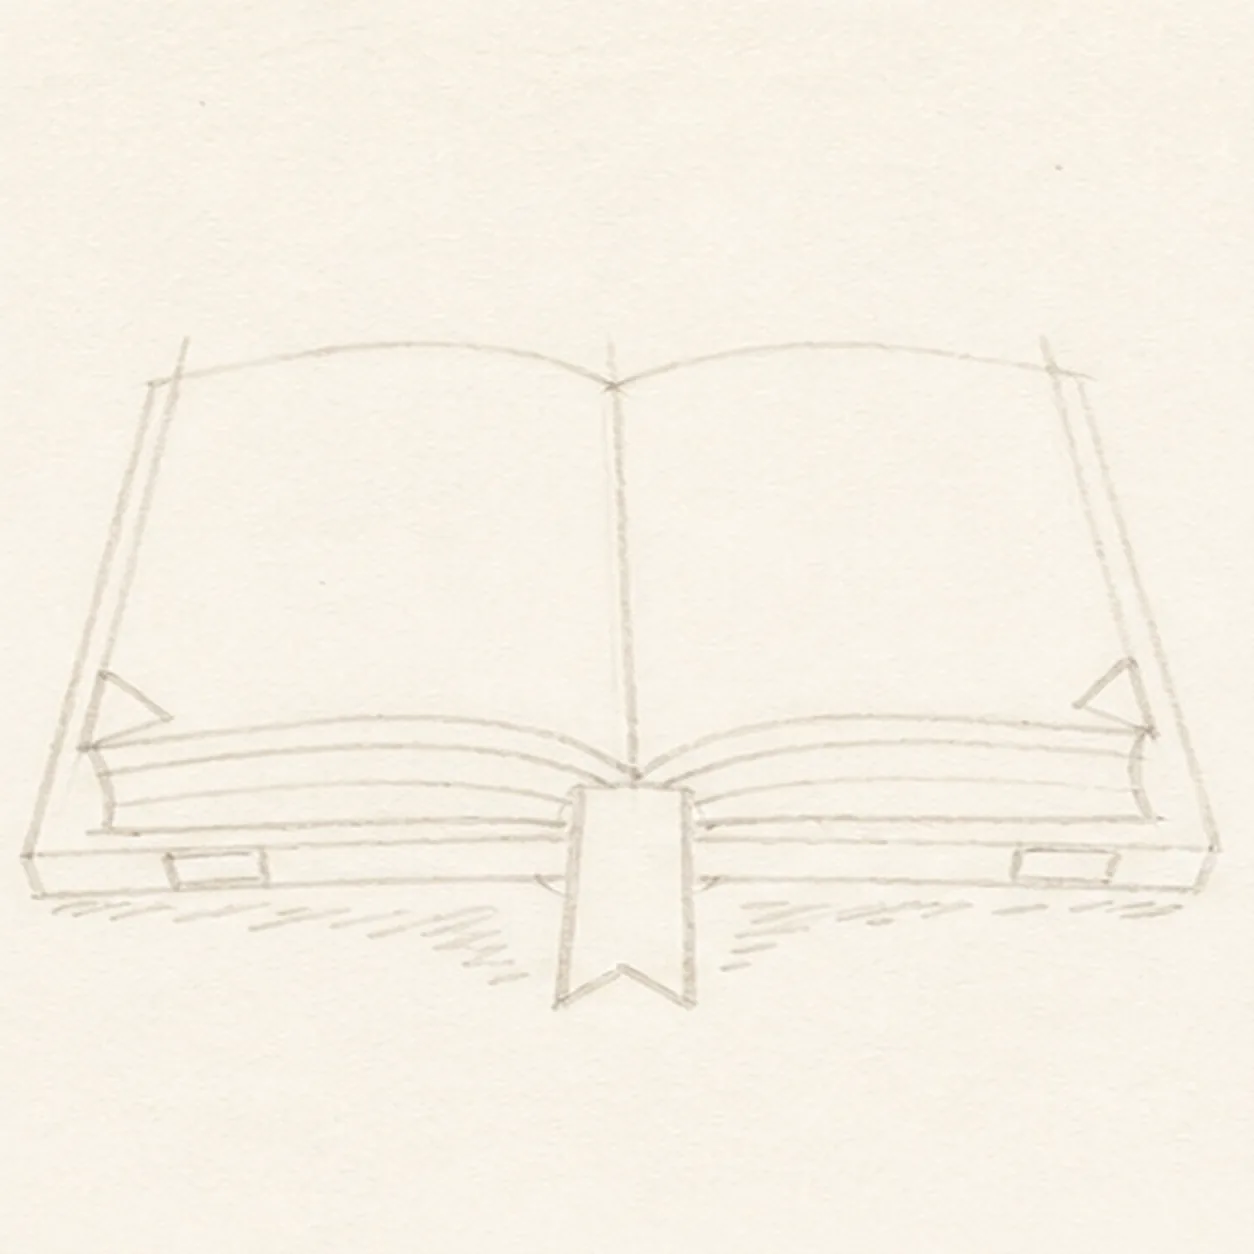
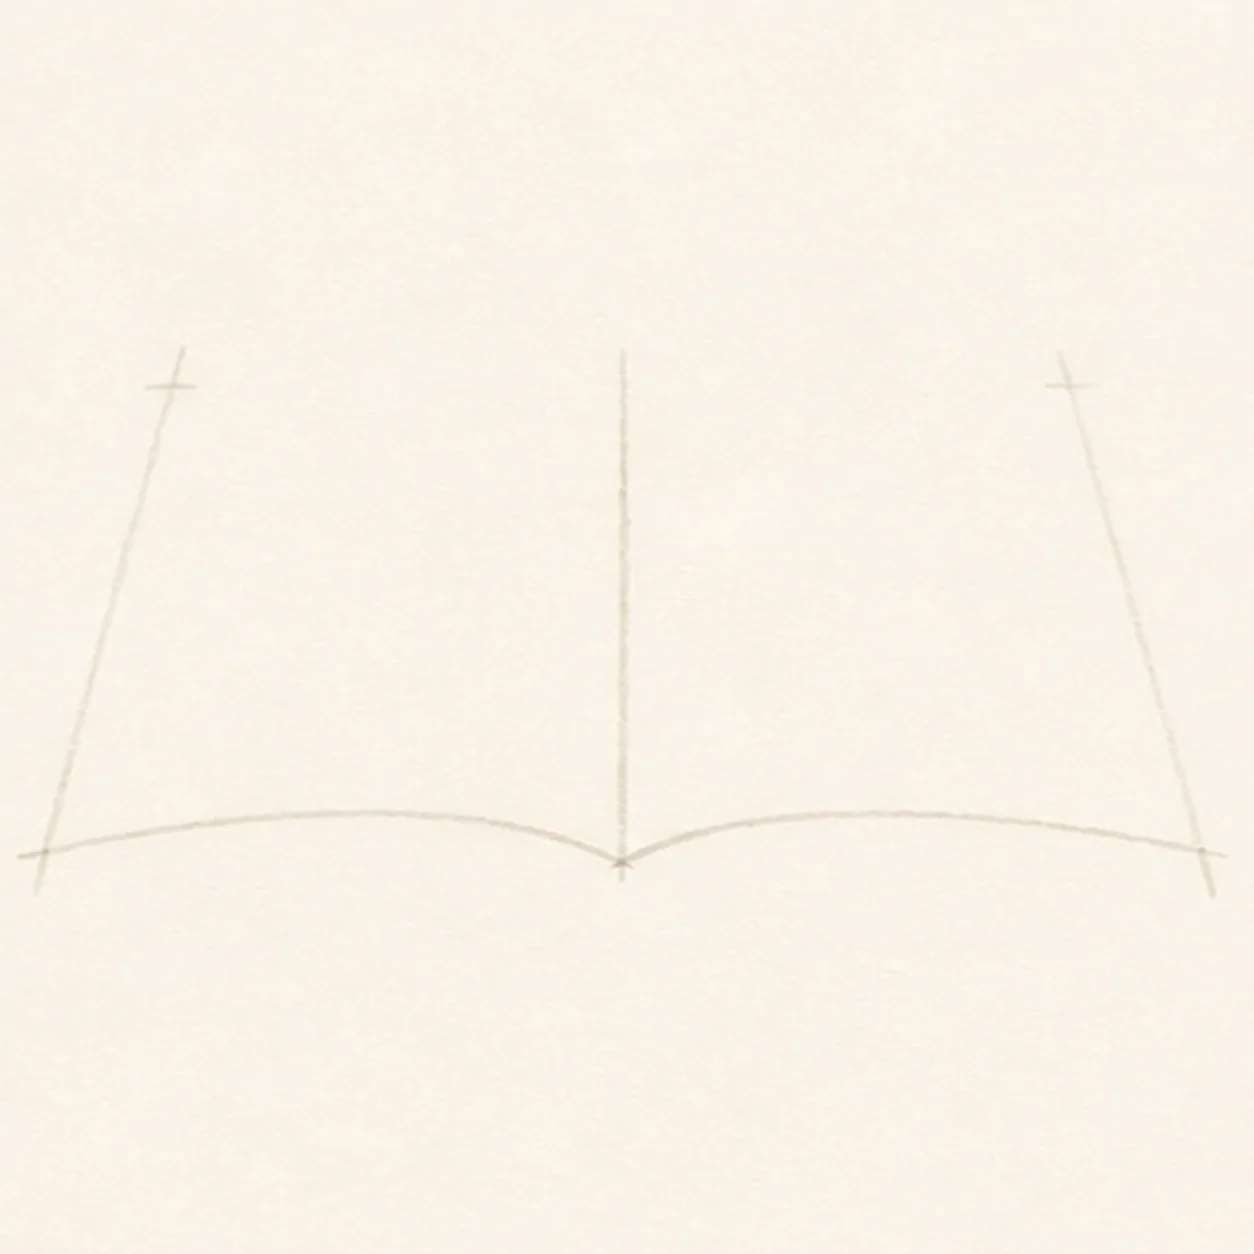
Repair open book early drawing steps

diff --git a/tutorials/open-book-with-ribbon-bookmark.html b/tutorials/open-book-with-ribbon-bookmark.html
@@ -87,23 +87,23 @@
       "step": [
         {
           "@type": "HowToStep",
-          "name": "Map the open spread",
-          "text": "Use pale construction to place two blank page faces, one center gutter, the lower page-block thickness, one cover edge, a ribbon route from the gutter, two corner-curl routes, exactly three lower page-edge bands per side, small cover-highlight gaps, and one broken shadow footprint."
+          "name": "Block the hinge gesture",
+          "text": "Use only a few very pale pencil strokes to place one center hinge, the shallow spread angle, two page-span arcs, and four outer corner points without closing the book or adding thickness, ribbon, curls, bands, highlights, shadow, ink, or color."
         },
         {
           "@type": "HowToStep",
-          "name": "Wrap the book silhouette",
-          "text": "Add one loose open-book contour with exactly two broad blank page shapes and one V-shaped center gutter while preserving every cover, ribbon, curl, lower-band, highlight, and shadow route."
+          "name": "Shape the two page faces",
+          "text": "Turn the sparse gesture into exactly two loose blank page-face silhouettes meeting at one V-shaped center gutter, with no lower thickness, cover, ribbon, curls, bands, highlights, shadow, ink, or color yet."
         },
         {
           "@type": "HowToStep",
-          "name": "Build the page blocks",
-          "text": "Clarify both page blocks, their lower thickness, one visible cover edge, and the center gutter while keeping the pale ribbon route and all six lower-band routes visible."
+          "name": "Build the layered book",
+          "text": "Add the lower page-block thickness, one visible cover edge, one ribbon footprint from the gutter, two outer corner-curl silhouettes, exactly three lower-band routes per side, small cover-highlight gaps, and one broken shadow footprint in pale pencil."
         },
         {
           "@type": "HowToStep",
-          "name": "Tuck in the coral ribbon",
-          "text": "Trace one flat ribbon bookmark over its persistent pale route, fill it coral, and strengthen one small curl at each outer page corner without changing the book geometry."
+          "name": "Ink the book and ribbon",
+          "text": "Trace the established page, gutter, thickness, cover, ribbon, curl, band, highlight, and shadow boundaries with thick, slightly wobbly black felt-tip, then fill only the single ribbon coral without changing the book geometry."
         },
         {
           "@type": "HowToStep",
@@ -112,8 +112,8 @@
         },
         {
           "@type": "HowToStep",
-          "name": "Ink the story-ready lines",
-          "text": "Trace only the established page, gutter, cover, ribbon, curl, lower-band, highlight, and shadow boundaries with thick, slightly wobbly black felt-tip, then add short hatching along the outer cover edges."
+          "name": "Hatch the cover edges",
+          "text": "Add short handmade hatching only along the established outer cover edges and deepen the same broken navy shadow while preserving every inked boundary, yellow band, coral ribbon, curl, and highlight gap."
         },
         {
           "@type": "HowToStep",
@@ -205,48 +205,48 @@
             <button class="step-check" type="button" aria-label="Mark step 1 complete"><span></span></button>
             <div class="step-number">01</div>
             <div class="step-art">
-              <img src="../assets/open-book-with-ribbon-bookmark-step-1.webp" alt="Map the open spread stage for how to draw an open book" width="627" height="627" loading="lazy">
+              <img src="../assets/open-book-with-ribbon-bookmark-step-1.webp" alt="Block the hinge gesture stage for how to draw an open book" width="627" height="627" loading="lazy">
             </div>
             <div class="step-copy">
-              <h3>Map the open spread</h3>
-              <p>Use pale construction to place two blank page faces, one center gutter, the lower page-block thickness, one cover edge, a ribbon route from the gutter, two corner-curl routes, exactly three lower page-edge bands per side, small cover-highlight gaps, and one broken shadow footprint.</p>
-              <p class="artist-tip"><strong>Marker tip:</strong> Ghost the two broad page curves before touching down, then compare the wedges of paper on both sides of the gutter. Keep the bookmark route visible from the start so the page and cover lines can stop around it instead of needing erasure later.</p>
+              <h3>Block the hinge gesture</h3>
+              <p>Use only a few very pale pencil strokes to place one center hinge, the shallow spread angle, two page-span arcs, and four outer corner points without closing the book or adding thickness, ribbon, curls, bands, highlights, shadow, ink, or color.</p>
+              <p class="artist-tip"><strong>Marker tip:</strong> Ghost the full spread before touching down, then mark the hinge and outer corners first. Stop while the drawing still looks like a loose gesture; the purpose is to control width and tilt, not to preview the finished book.</p>
             </div>
           </li>
           <li class="step-card">
             <button class="step-check" type="button" aria-label="Mark step 2 complete"><span></span></button>
             <div class="step-number">02</div>
             <div class="step-art">
-              <img src="../assets/open-book-with-ribbon-bookmark-step-2.webp" alt="Wrap the book silhouette stage for how to draw an open book" width="627" height="627" loading="lazy">
+              <img src="../assets/open-book-with-ribbon-bookmark-step-2.webp" alt="Shape the two page faces stage for how to draw an open book" width="627" height="627" loading="lazy">
             </div>
             <div class="step-copy">
-              <h3>Wrap the book silhouette</h3>
-              <p>Add one loose open-book contour with exactly two broad blank page shapes and one V-shaped center gutter while preserving every cover, ribbon, curl, lower-band, highlight, and shadow route.</p>
-              <p class="artist-tip"><strong>Marker tip:</strong> Rotate the page to pull each long outer edge in one relaxed stroke. Use the gutter as the hinge, and compare the two page widths rather than forcing ruler-perfect symmetry.</p>
+              <h3>Shape the two page faces</h3>
+              <p>Turn the sparse gesture into exactly two loose blank page-face silhouettes meeting at one V-shaped center gutter, with no lower thickness, cover, ribbon, curls, bands, highlights, shadow, ink, or color yet.</p>
+              <p class="artist-tip"><strong>Marker tip:</strong> Rotate the page to pull each long outer edge in one relaxed stroke. Use the gutter as the hinge and compare the two page widths, but leave the entire area below the page faces open for the next construction job.</p>
             </div>
           </li>
           <li class="step-card">
             <button class="step-check" type="button" aria-label="Mark step 3 complete"><span></span></button>
             <div class="step-number">03</div>
             <div class="step-art">
-              <img src="../assets/open-book-with-ribbon-bookmark-step-3.webp" alt="Build the page blocks stage for how to draw an open book" width="627" height="627" loading="lazy">
+              <img src="../assets/open-book-with-ribbon-bookmark-step-3.webp" alt="Build the layered book stage for how to draw an open book" width="627" height="627" loading="lazy">
             </div>
             <div class="step-copy">
-              <h3>Build the page blocks</h3>
-              <p>Clarify both page blocks, their lower thickness, one visible cover edge, and the center gutter while keeping the pale ribbon route and all six lower-band routes visible.</p>
-              <p class="artist-tip"><strong>Marker tip:</strong> Draw the page faces first, then echo their lower curves to create thickness. Stop the inner page and cover lines at the bookmark route and check that the three bands on each side fan from the same gutter point.</p>
+              <h3>Build the layered book</h3>
+              <p>Add the lower page-block thickness, one visible cover edge, one ribbon footprint from the gutter, two outer corner-curl silhouettes, exactly three lower-band routes per side, small cover-highlight gaps, and one broken shadow footprint in pale pencil.</p>
+              <p class="artist-tip"><strong>Marker tip:</strong> Echo the lower page curves to create thickness, then count three band routes on each side. Stop the gutter, cover, and band lines at the ribbon footprint and curl silhouettes so every later overlap is already physically resolved.</p>
             </div>
           </li>
           <li class="step-card">
             <button class="step-check" type="button" aria-label="Mark step 4 complete"><span></span></button>
             <div class="step-number">04</div>
             <div class="step-art">
-              <img src="../assets/open-book-with-ribbon-bookmark-step-4.webp" alt="Tuck in the coral ribbon stage for how to draw an open book" width="627" height="627" loading="lazy">
+              <img src="../assets/open-book-with-ribbon-bookmark-step-4.webp" alt="Ink the book and ribbon stage for how to draw an open book" width="627" height="627" loading="lazy">
             </div>
             <div class="step-copy">
-              <h3>Tuck in the coral ribbon</h3>
-              <p>Trace one flat ribbon bookmark over its persistent pale route, fill it coral, and strengthen one small curl at each outer page corner without changing the book geometry.</p>
-              <p class="artist-tip"><strong>Marker tip:</strong> Outline the ribbon from gutter to notch in one pass, then let the coral dry before touching the black edge later. Keep the gutter and cover lines broken where the ribbon overlaps them so the bookmark sits inside the book instead of on top.</p>
+              <h3>Ink the book and ribbon</h3>
+              <p>Trace the established page, gutter, thickness, cover, ribbon, curl, band, highlight, and shadow boundaries with thick, slightly wobbly black felt-tip, then fill only the single ribbon coral without changing the book geometry.</p>
+              <p class="artist-tip"><strong>Marker tip:</strong> Ink the small ribbon and curls first, then rotate the page for the long structural edges. Keep the gutter and cover lines broken where the ribbon overlaps them, and let the coral dry before the next color stage.</p>
             </div>
           </li>
           <li class="step-card">
@@ -265,12 +265,12 @@
             <button class="step-check" type="button" aria-label="Mark step 6 complete"><span></span></button>
             <div class="step-number">06</div>
             <div class="step-art">
-              <img src="../assets/open-book-with-ribbon-bookmark-step-6.webp" alt="Ink the story-ready lines stage for how to draw an open book" width="627" height="627" loading="lazy">
+              <img src="../assets/open-book-with-ribbon-bookmark-step-6.webp" alt="Hatch the cover edges stage for how to draw an open book" width="627" height="627" loading="lazy">
             </div>
             <div class="step-copy">
-              <h3>Ink the story-ready lines</h3>
-              <p>Trace only the established page, gutter, cover, ribbon, curl, lower-band, highlight, and shadow boundaries with thick, slightly wobbly black felt-tip, then add short hatching along the outer cover edges.</p>
-              <p class="artist-tip"><strong>Marker tip:</strong> Let the coral, yellow, and navy areas dry, then ink the small curls and gutter before rotating the page for the long silhouette. Use the heaviest line outside the book and lighter hatching inside the cover edge.</p>
+              <h3>Hatch the cover edges</h3>
+              <p>Add short handmade hatching only along the established outer cover edges and deepen the same broken navy shadow while preserving every inked boundary, yellow band, coral ribbon, curl, and highlight gap.</p>
+              <p class="artist-tip"><strong>Marker tip:</strong> Let the yellow and navy marker dry before adding short hatching that follows the cover thickness. Keep the heaviest accents at the outside corners and under the book instead of retracing every line from the prior step.</p>
             </div>
           </li>
           <li class="step-card">

diff --git a/index.html b/index.html
@@ -103,48 +103,48 @@
             <button class="step-check" type="button" aria-label="Mark step 1 complete"><span></span></button>
             <div class="step-number">01</div>
             <div class="step-art">
-              <img src="assets/open-book-with-ribbon-bookmark-step-1.webp" alt="Map the open spread stage for how to draw an open book" width="627" height="627" loading="lazy">
+              <img src="assets/open-book-with-ribbon-bookmark-step-1.webp" alt="Block the hinge gesture stage for how to draw an open book" width="627" height="627" loading="lazy">
             </div>
             <div class="step-copy">
-              <h3>Map the open spread</h3>
-              <p>Use pale construction to place two blank page faces, one center gutter, the lower page-block thickness, one cover edge, a ribbon route from the gutter, two corner-curl routes, exactly three lower page-edge bands per side, small cover-highlight gaps, and one broken shadow footprint.</p>
-              <p class="artist-tip"><strong>Marker tip:</strong> Ghost the two broad page curves before touching down, then compare the wedges of paper on both sides of the gutter. Keep the bookmark route visible from the start so the page and cover lines can stop around it instead of needing erasure later.</p>
+              <h3>Block the hinge gesture</h3>
+              <p>Use only a few very pale pencil strokes to place one center hinge, the shallow spread angle, two page-span arcs, and four outer corner points without closing the book or adding thickness, ribbon, curls, bands, highlights, shadow, ink, or color.</p>
+              <p class="artist-tip"><strong>Marker tip:</strong> Ghost the full spread before touching down, then mark the hinge and outer corners first. Stop while the drawing still looks like a loose gesture; the purpose is to control width and tilt, not to preview the finished book.</p>
             </div>
           </li>
           <li class="step-card">
             <button class="step-check" type="button" aria-label="Mark step 2 complete"><span></span></button>
             <div class="step-number">02</div>
             <div class="step-art">
-              <img src="assets/open-book-with-ribbon-bookmark-step-2.webp" alt="Wrap the book silhouette stage for how to draw an open book" width="627" height="627" loading="lazy">
+              <img src="assets/open-book-with-ribbon-bookmark-step-2.webp" alt="Shape the two page faces stage for how to draw an open book" width="627" height="627" loading="lazy">
             </div>
             <div class="step-copy">
-              <h3>Wrap the book silhouette</h3>
-              <p>Add one loose open-book contour with exactly two broad blank page shapes and one V-shaped center gutter while preserving every cover, ribbon, curl, lower-band, highlight, and shadow route.</p>
-              <p class="artist-tip"><strong>Marker tip:</strong> Rotate the page to pull each long outer edge in one relaxed stroke. Use the gutter as the hinge, and compare the two page widths rather than forcing ruler-perfect symmetry.</p>
+              <h3>Shape the two page faces</h3>
+              <p>Turn the sparse gesture into exactly two loose blank page-face silhouettes meeting at one V-shaped center gutter, with no lower thickness, cover, ribbon, curls, bands, highlights, shadow, ink, or color yet.</p>
+              <p class="artist-tip"><strong>Marker tip:</strong> Rotate the page to pull each long outer edge in one relaxed stroke. Use the gutter as the hinge and compare the two page widths, but leave the entire area below the page faces open for the next construction job.</p>
             </div>
           </li>
           <li class="step-card">
             <button class="step-check" type="button" aria-label="Mark step 3 complete"><span></span></button>
             <div class="step-number">03</div>
             <div class="step-art">
-              <img src="assets/open-book-with-ribbon-bookmark-step-3.webp" alt="Build the page blocks stage for how to draw an open book" width="627" height="627" loading="lazy">
+              <img src="assets/open-book-with-ribbon-bookmark-step-3.webp" alt="Build the layered book stage for how to draw an open book" width="627" height="627" loading="lazy">
             </div>
             <div class="step-copy">
-              <h3>Build the page blocks</h3>
-              <p>Clarify both page blocks, their lower thickness, one visible cover edge, and the center gutter while keeping the pale ribbon route and all six lower-band routes visible.</p>
-              <p class="artist-tip"><strong>Marker tip:</strong> Draw the page faces first, then echo their lower curves to create thickness. Stop the inner page and cover lines at the bookmark route and check that the three bands on each side fan from the same gutter point.</p>
+              <h3>Build the layered book</h3>
+              <p>Add the lower page-block thickness, one visible cover edge, one ribbon footprint from the gutter, two outer corner-curl silhouettes, exactly three lower-band routes per side, small cover-highlight gaps, and one broken shadow footprint in pale pencil.</p>
+              <p class="artist-tip"><strong>Marker tip:</strong> Echo the lower page curves to create thickness, then count three band routes on each side. Stop the gutter, cover, and band lines at the ribbon footprint and curl silhouettes so every later overlap is already physically resolved.</p>
             </div>
           </li>
           <li class="step-card">
             <button class="step-check" type="button" aria-label="Mark step 4 complete"><span></span></button>
             <div class="step-number">04</div>
             <div class="step-art">
-              <img src="assets/open-book-with-ribbon-bookmark-step-4.webp" alt="Tuck in the coral ribbon stage for how to draw an open book" width="627" height="627" loading="lazy">
+              <img src="assets/open-book-with-ribbon-bookmark-step-4.webp" alt="Ink the book and ribbon stage for how to draw an open book" width="627" height="627" loading="lazy">
             </div>
             <div class="step-copy">
-              <h3>Tuck in the coral ribbon</h3>
-              <p>Trace one flat ribbon bookmark over its persistent pale route, fill it coral, and strengthen one small curl at each outer page corner without changing the book geometry.</p>
-              <p class="artist-tip"><strong>Marker tip:</strong> Outline the ribbon from gutter to notch in one pass, then let the coral dry before touching the black edge later. Keep the gutter and cover lines broken where the ribbon overlaps them so the bookmark sits inside the book instead of on top.</p>
+              <h3>Ink the book and ribbon</h3>
+              <p>Trace the established page, gutter, thickness, cover, ribbon, curl, band, highlight, and shadow boundaries with thick, slightly wobbly black felt-tip, then fill only the single ribbon coral without changing the book geometry.</p>
+              <p class="artist-tip"><strong>Marker tip:</strong> Ink the small ribbon and curls first, then rotate the page for the long structural edges. Keep the gutter and cover lines broken where the ribbon overlaps them, and let the coral dry before the next color stage.</p>
             </div>
           </li>
           <li class="step-card">
@@ -163,12 +163,12 @@
             <button class="step-check" type="button" aria-label="Mark step 6 complete"><span></span></button>
             <div class="step-number">06</div>
             <div class="step-art">
-              <img src="assets/open-book-with-ribbon-bookmark-step-6.webp" alt="Ink the story-ready lines stage for how to draw an open book" width="627" height="627" loading="lazy">
+              <img src="assets/open-book-with-ribbon-bookmark-step-6.webp" alt="Hatch the cover edges stage for how to draw an open book" width="627" height="627" loading="lazy">
             </div>
             <div class="step-copy">
-              <h3>Ink the story-ready lines</h3>
-              <p>Trace only the established page, gutter, cover, ribbon, curl, lower-band, highlight, and shadow boundaries with thick, slightly wobbly black felt-tip, then add short hatching along the outer cover edges.</p>
-              <p class="artist-tip"><strong>Marker tip:</strong> Let the coral, yellow, and navy areas dry, then ink the small curls and gutter before rotating the page for the long silhouette. Use the heaviest line outside the book and lighter hatching inside the cover edge.</p>
+              <h3>Hatch the cover edges</h3>
+              <p>Add short handmade hatching only along the established outer cover edges and deepen the same broken navy shadow while preserving every inked boundary, yellow band, coral ribbon, curl, and highlight gap.</p>
+              <p class="artist-tip"><strong>Marker tip:</strong> Let the yellow and navy marker dry before adding short hatching that follows the cover thickness. Keep the heaviest accents at the outside corners and under the book instead of retracing every line from the prior step.</p>
             </div>
           </li>
           <li class="step-card">

diff --git a/HUMANS.md b/HUMANS.md
@@ -7,6 +7,17 @@
 - Local path: `/Users/mybbor/Library/CloudStorage/Dropbox/websites/doodlea.day`
 - Previous: 2026-08-08 / Codex / Daily sketch and doodle lessons
 
+### 2026-08-09 — Open-book early-step correction (Codex)
+- Corrected `open-book-with-ribbon-bookmark` after owner review found Steps
+  1-3 too visually similar. The repaired sequence now uses three distinct jobs:
+  a sparse hinge/spread gesture, two page-face silhouettes, then the complete
+  layered pencil construction before black ink. Steps 4-7 and the finished JPG
+  remain byte-identical to the approved published art.
+- The superseded contact sheet and original Step 1-3 JPG masters remain private
+  under `superseded-near-duplicate-early-panels-v2/`. Schema-v2 plan, written
+  steps, derivatives, frame deltas, JSON-LD, internal links, unused assets, lab
+  privacy, `git diff --check`, and rendered desktop/mobile QA all pass.
+
 ### 2026-08-09 — Daily tutorial (Codex)
 - Added one current lesson only: `open-book-with-ribbon-bookmark` (August 9 /
   Day 096). The approved v2 eight-panel handmade raster process keeps one open
